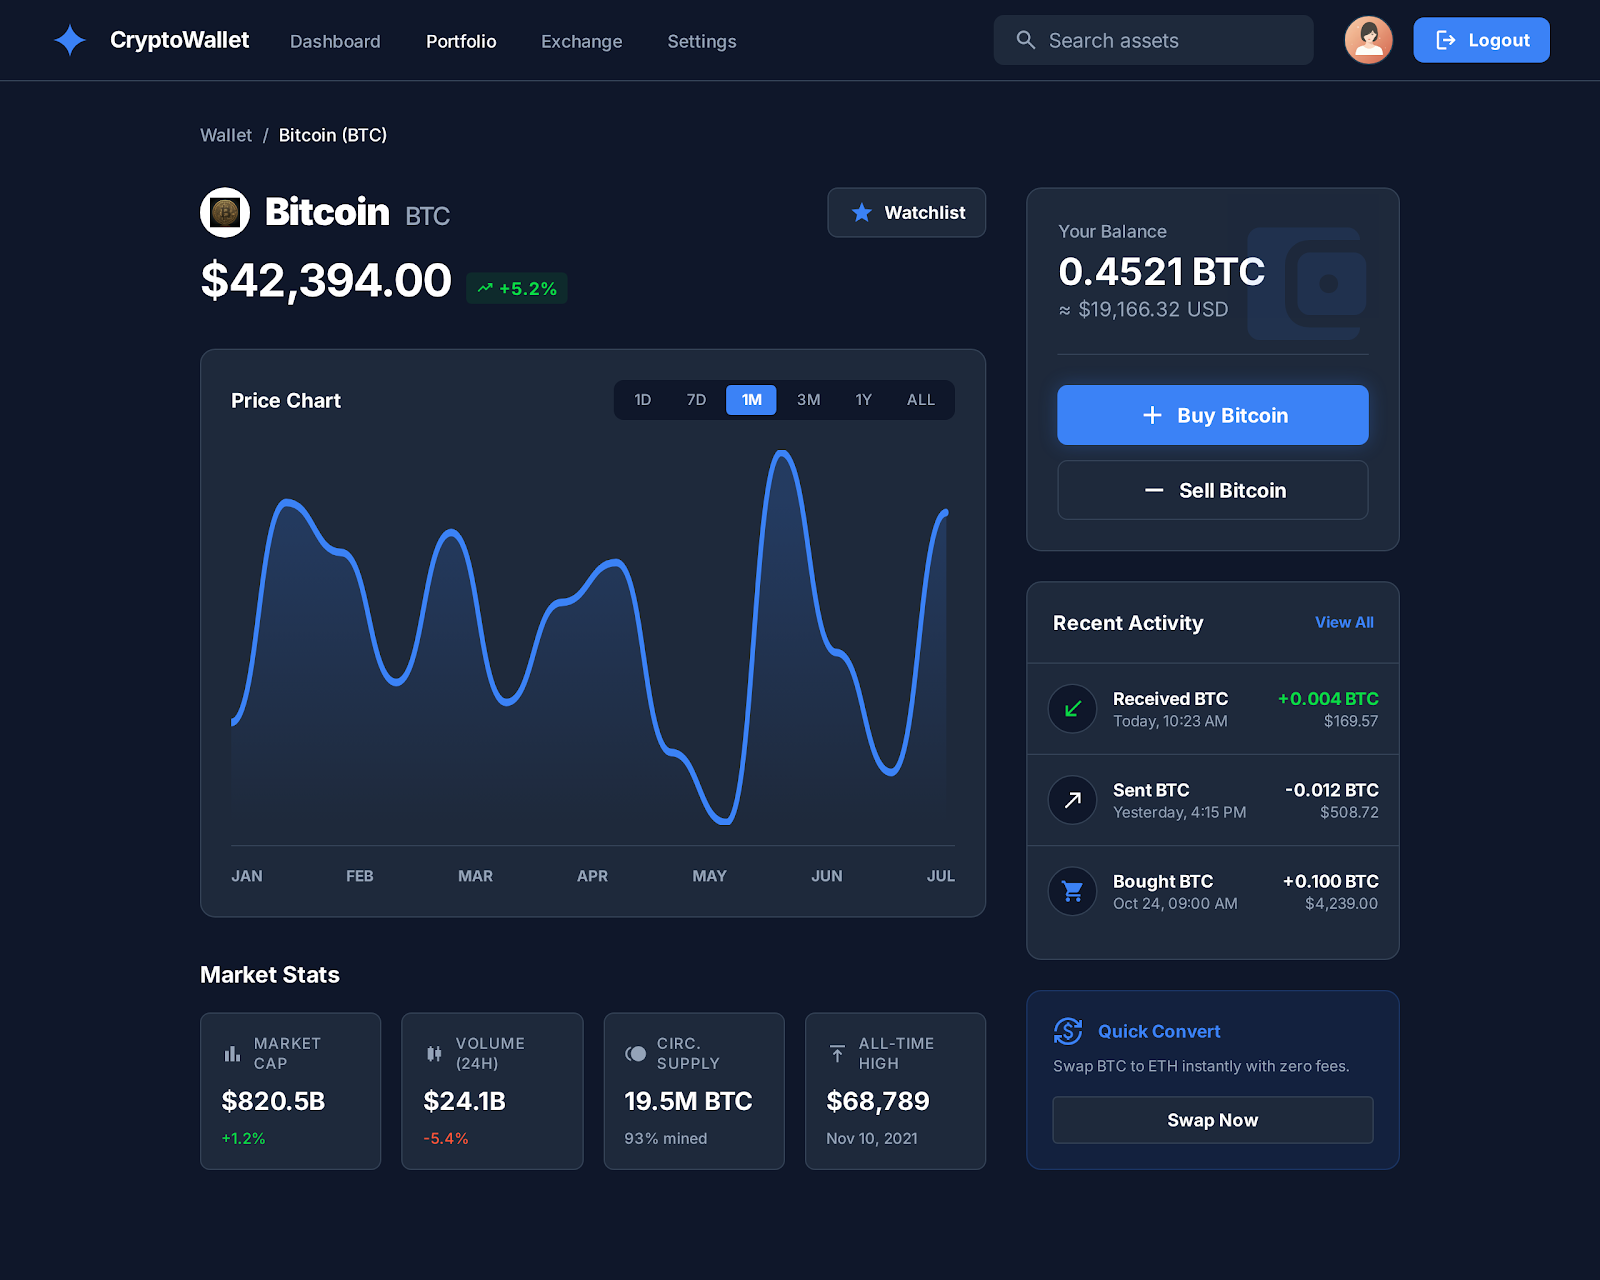
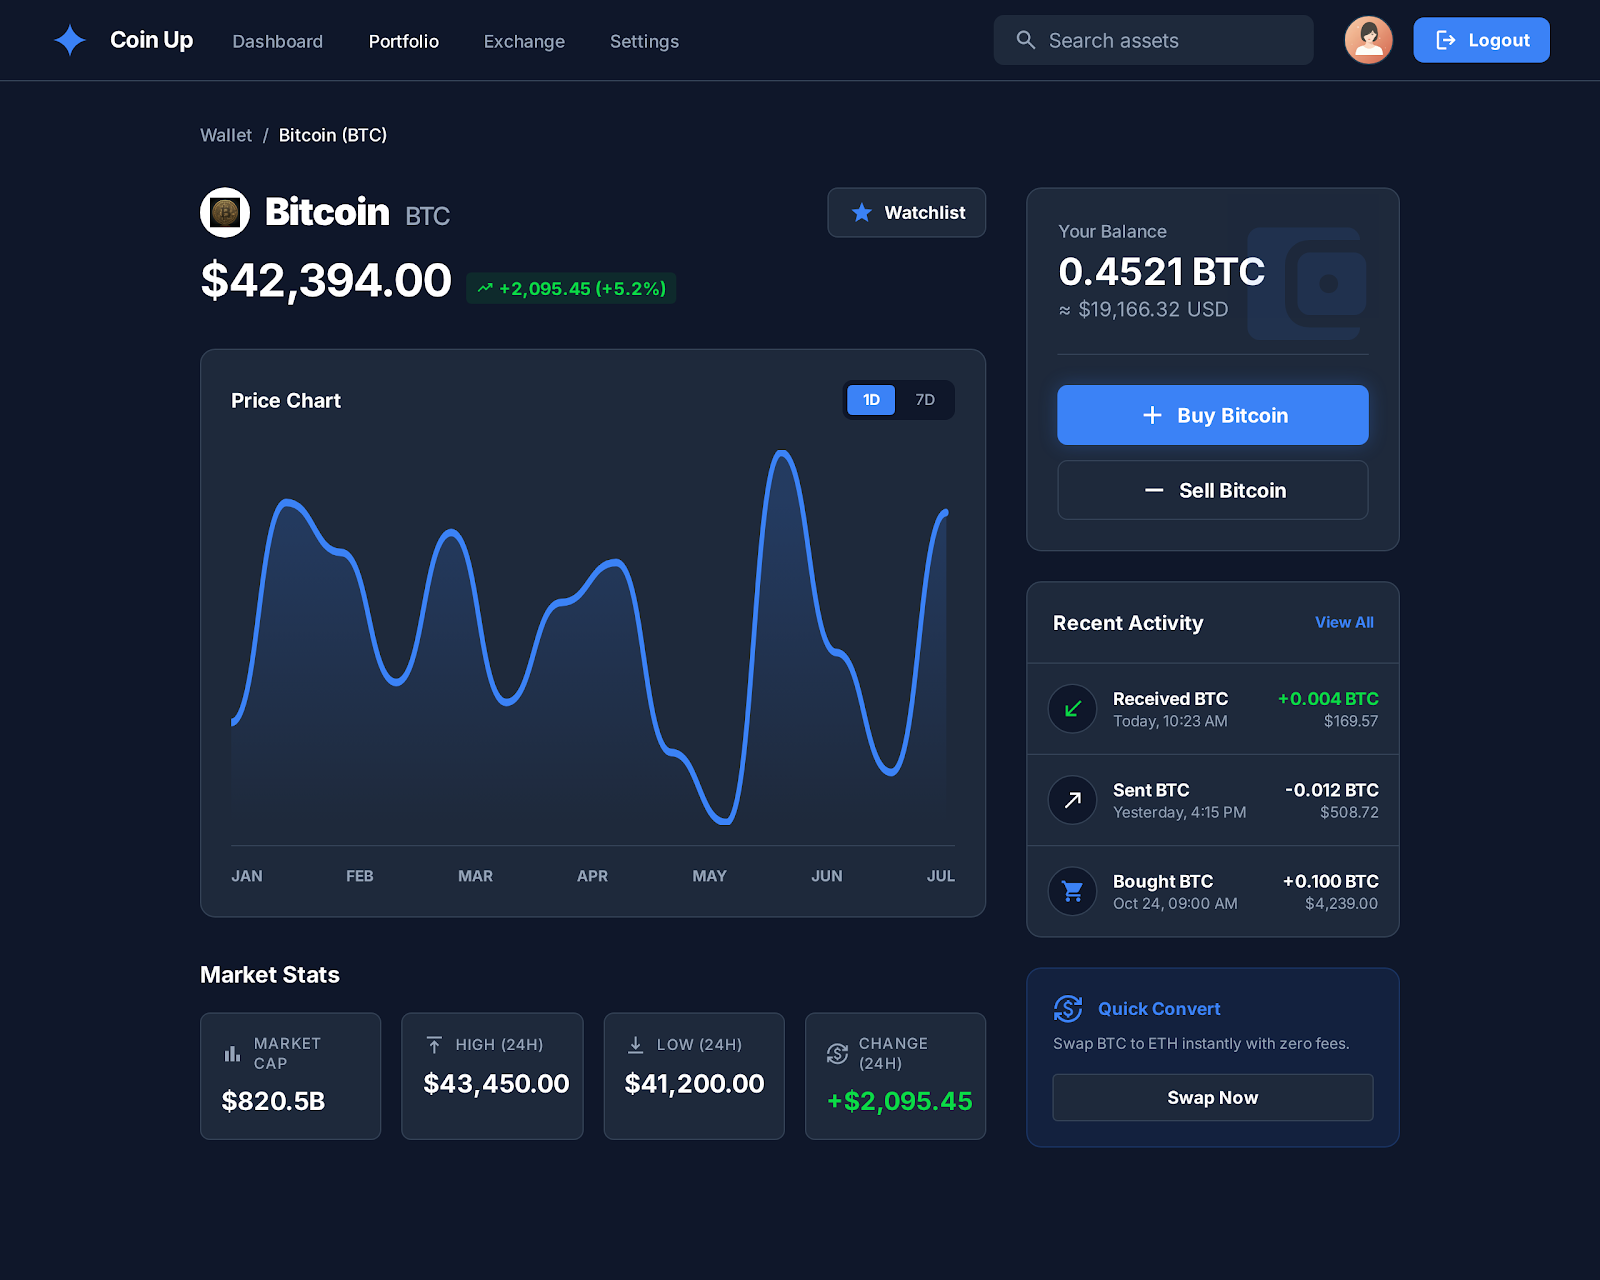
feat: implement watchlist management component with alerts functionality

diff --git a/ui-design/coin_details_page/code.html b/ui-design/coin_details_page/code.html
@@ -2,7 +2,7 @@
 <html class="dark" lang="en"><head>
 <meta charset="utf-8"/>
 <meta content="width=device-width, initial-scale=1.0" name="viewport"/>
-<title>Coin Details - CryptoWallet</title>
+<title>Coin Details - Coin Up</title>
 <link href="https://fonts.googleapis.com/css2?family=Inter:wght@400;500;700;900&amp;display=swap" rel="stylesheet"/>
 <link href="https://fonts.googleapis.com/css2?family=Material+Symbols+Outlined:wght,FILL@100..700,0..1&amp;display=swap" rel="stylesheet"/>
 <script src="https://cdn.tailwindcss.com?plugins=forms,container-queries"></script>
@@ -37,7 +37,7 @@
 <path d="M24 4C25.7818 14.2173 33.7827 22.2182 44 24C33.7827 25.7818 25.7818 33.7827 24 44C22.2182 33.7827 14.2173 25.7818 4 24C14.2173 22.2182 22.2182 14.2173 24 4Z" fill="currentColor"></path>
 </svg>
 </div>
-<h2 class="text-white text-lg font-bold leading-tight tracking-[-0.015em]">CryptoWallet</h2>
+<h2 class="text-white text-lg font-bold leading-tight tracking-[-0.015em]">Coin Up</h2>
 </div>
 <nav class="flex items-center gap-9 hidden md:flex">
 <a class="text-secondary-text hover:text-white transition-colors text-sm font-medium leading-normal" href="#">Dashboard</a>
@@ -85,7 +85,7 @@
 <span class="text-white text-4xl font-bold leading-tight tracking-tight">$42,394.00</span>
 <span class="text-[#0bda46] bg-[#0bda46]/10 px-2 py-0.5 rounded text-sm font-bold leading-normal flex items-center gap-1">
 <span class="material-symbols-outlined text-sm">trending_up</span>
-                                +5.2%
+                                +2,095.45 (+5.2%)
                             </span>
 </div>
 </div>
@@ -98,12 +98,8 @@
 <div class="flex flex-col md:flex-row justify-between items-start md:items-center mb-6 gap-4">
 <p class="text-white text-base font-bold">Price Chart</p>
 <div class="flex bg-background-dark rounded-lg p-1 gap-1 overflow-x-auto max-w-full">
-<button class="px-3 py-1 text-xs font-medium text-secondary-text rounded hover:text-white transition-colors">1D</button>
+<button class="px-3 py-1 text-xs font-bold text-white bg-primary rounded shadow-sm">1D</button>
 <button class="px-3 py-1 text-xs font-medium text-secondary-text rounded hover:text-white transition-colors">7D</button>
-<button class="px-3 py-1 text-xs font-bold text-white bg-primary rounded shadow-sm">1M</button>
-<button class="px-3 py-1 text-xs font-medium text-secondary-text rounded hover:text-white transition-colors">3M</button>
-<button class="px-3 py-1 text-xs font-medium text-secondary-text rounded hover:text-white transition-colors">1Y</button>
-<button class="px-3 py-1 text-xs font-medium text-secondary-text rounded hover:text-white transition-colors">ALL</button>
 </div>
 </div>
 <div class="relative h-[300px] w-full">
@@ -137,31 +133,27 @@
 <p class="text-xs font-medium uppercase tracking-wider">Market Cap</p>
 </div>
 <p class="text-white text-xl font-bold">$820.5B</p>
-<p class="text-[#0bda46] text-xs font-medium">+1.2%</p>
-</div>
-<div class="flex flex-col gap-2 rounded-lg p-4 border border-border-dark bg-card-dark">
-<div class="flex items-center gap-2 text-secondary-text">
-<span class="material-symbols-outlined text-[18px]">candlestick_chart</span>
-<p class="text-xs font-medium uppercase tracking-wider">Volume (24h)</p>
-</div>
-<p class="text-white text-xl font-bold">$24.1B</p>
-<p class="text-[#fa5538] text-xs font-medium">-5.4%</p>
-</div>
-<div class="flex flex-col gap-2 rounded-lg p-4 border border-border-dark bg-card-dark">
-<div class="flex items-center gap-2 text-secondary-text">
-<span class="material-symbols-outlined text-[18px]">toll</span>
-<p class="text-xs font-medium uppercase tracking-wider">Circ. Supply</p>
-</div>
-<p class="text-white text-xl font-bold">19.5M BTC</p>
-<p class="text-secondary-text text-xs font-medium">93% mined</p>
 </div>
 <div class="flex flex-col gap-2 rounded-lg p-4 border border-border-dark bg-card-dark">
 <div class="flex items-center gap-2 text-secondary-text">
 <span class="material-symbols-outlined text-[18px]">vertical_align_top</span>
-<p class="text-xs font-medium uppercase tracking-wider">All-Time High</p>
+<p class="text-xs font-medium uppercase tracking-wider">High (24h)</p>
 </div>
-<p class="text-white text-xl font-bold">$68,789</p>
-<p class="text-secondary-text text-xs font-medium">Nov 10, 2021</p>
+<p class="text-white text-xl font-bold">$43,450.00</p>
+</div>
+<div class="flex flex-col gap-2 rounded-lg p-4 border border-border-dark bg-card-dark">
+<div class="flex items-center gap-2 text-secondary-text">
+<span class="material-symbols-outlined text-[18px]">vertical_align_bottom</span>
+<p class="text-xs font-medium uppercase tracking-wider">Low (24h)</p>
+</div>
+<p class="text-white text-xl font-bold">$41,200.00</p>
+</div>
+<div class="flex flex-col gap-2 rounded-lg p-4 border border-border-dark bg-card-dark">
+<div class="flex items-center gap-2 text-secondary-text">
+<span class="material-symbols-outlined text-[18px]">currency_exchange</span>
+<p class="text-xs font-medium uppercase tracking-wider">Change (24h)</p>
+</div>
+<p class="text-[#0bda46] text-xl font-bold">+$2,095.45</p>
 </div>
 </div>
 </div>

diff --git a/ui-design/home_dashboard/code.html b/ui-design/home_dashboard/code.html
@@ -28,7 +28,8 @@
             },
         }
     </script>
-<style>.scrollbar-hide::-webkit-scrollbar {
+<style>
+        .scrollbar-hide::-webkit-scrollbar {
             display: none;
         }
         .scrollbar-hide {
@@ -167,7 +168,6 @@
 <th class="px-6 py-4 font-medium text-right">24h Change</th>
 <th class="px-6 py-4 font-medium text-right hidden lg:table-cell">Market Cap</th>
 <th class="px-6 py-4 font-medium text-center hidden md:table-cell w-32">7d Trend</th>
-<th class="px-6 py-4 font-medium text-right">Action</th>
 </tr>
 </thead>
 <tbody class="divide-y divide-border-dark text-sm">
@@ -191,11 +191,6 @@
 </svg>
 </div>
 </td>
-<td class="px-6 py-4 whitespace-nowrap text-right">
-<button class="bg-primary hover:bg-primary/90 text-white font-bold py-1.5 px-4 rounded-lg text-xs shadow-md shadow-primary/20 transition-all hover:scale-105">
-                                                Trade
-                                            </button>
-</td>
 </tr>
 <tr class="group hover:bg-card-hover transition-colors">
 <td class="px-6 py-4 whitespace-nowrap">
@@ -216,11 +211,6 @@
 <path d="M0,10 C20,10 30,5 40,15 C50,25 60,20 80,25 C90,28 100,20 100,30" fill="none" stroke="currentColor" stroke-width="2" vector-effect="non-scaling-stroke"></path>
 </svg>
 </div>
-</td>
-<td class="px-6 py-4 whitespace-nowrap text-right">
-<button class="bg-card-dark border border-border-dark text-white hover:bg-border-dark font-medium py-1.5 px-4 rounded-lg text-xs transition-colors">
-                                                Trade
-                                            </button>
 </td>
 </tr>
 <tr class="group hover:bg-card-hover transition-colors">
@@ -243,11 +233,6 @@
 </svg>
 </div>
 </td>
-<td class="px-6 py-4 whitespace-nowrap text-right">
-<button class="bg-primary hover:bg-primary/90 text-white font-bold py-1.5 px-4 rounded-lg text-xs shadow-md shadow-primary/20 transition-all hover:scale-105">
-                                                Trade
-                                            </button>
-</td>
 </tr>
 <tr class="group hover:bg-card-hover transition-colors">
 <td class="px-6 py-4 whitespace-nowrap">
@@ -268,11 +253,6 @@
 <path d="M0,20 C20,22 40,18 60,20 C80,22 100,15 100,15" fill="none" stroke="currentColor" stroke-width="2" vector-effect="non-scaling-stroke"></path>
 </svg>
 </div>
-</td>
-<td class="px-6 py-4 whitespace-nowrap text-right">
-<button class="bg-card-dark border border-border-dark text-white hover:bg-border-dark font-medium py-1.5 px-4 rounded-lg text-xs transition-colors">
-                                                Trade
-                                            </button>
 </td>
 </tr>
 <tr class="group hover:bg-card-hover transition-colors">
@@ -295,11 +275,6 @@
 </svg>
 </div>
 </td>
-<td class="px-6 py-4 whitespace-nowrap text-right">
-<button class="bg-card-dark border border-border-dark text-white hover:bg-border-dark font-medium py-1.5 px-4 rounded-lg text-xs transition-colors">
-                                                Trade
-                                            </button>
-</td>
 </tr>
 <tr class="group hover:bg-card-hover transition-colors">
 <td class="px-6 py-4 whitespace-nowrap">
@@ -321,11 +296,6 @@
 </svg>
 </div>
 </td>
-<td class="px-6 py-4 whitespace-nowrap text-right">
-<button class="bg-card-dark border border-border-dark text-white hover:bg-border-dark font-medium py-1.5 px-4 rounded-lg text-xs transition-colors">
-                                                Trade
-                                            </button>
-</td>
 </tr>
 </tbody>
 </table>
@@ -339,7 +309,7 @@
 <p class="text-text-secondary text-sm mb-4 max-w-sm">Deep dive into your asset allocation. Understand your risk exposure and diversify wisely.</p>
 </div>
 <button class="self-start text-primary text-sm font-bold flex items-center gap-1 hover:gap-2 transition-all">
-                                View Full Report <span class="material-symbols-outlined text-sm">arrow_forward</span>
+                            View Full Report <span class="material-symbols-outlined text-sm">arrow_forward</span>
 </button>
 </div>
 <div class="bg-gradient-to-br from-card-dark to-[#172554] rounded-xl p-6 border border-border-dark flex items-center justify-between">
@@ -347,8 +317,8 @@
 <h3 class="text-white text-lg font-bold">Invite Friends</h3>
 <p class="text-text-secondary text-sm max-w-xs">Earn 5% commission on every trade your referrals make. Join our affiliate program.</p>
 <button class="mt-2 w-fit bg-white text-background-dark font-bold py-2 px-4 rounded-lg text-sm shadow-lg hover:bg-gray-100 transition-colors">
-                                    Copy Invite Link
-                                </button>
+                                Copy Invite Link
+                            </button>
 </div>
 <div class="hidden sm:block text-primary opacity-20 transform rotate-12">
 <span class="material-symbols-outlined text-8xl">groups</span>
@@ -359,4 +329,5 @@
 </div>
 </main>
 </div>
+
 </body></html>
